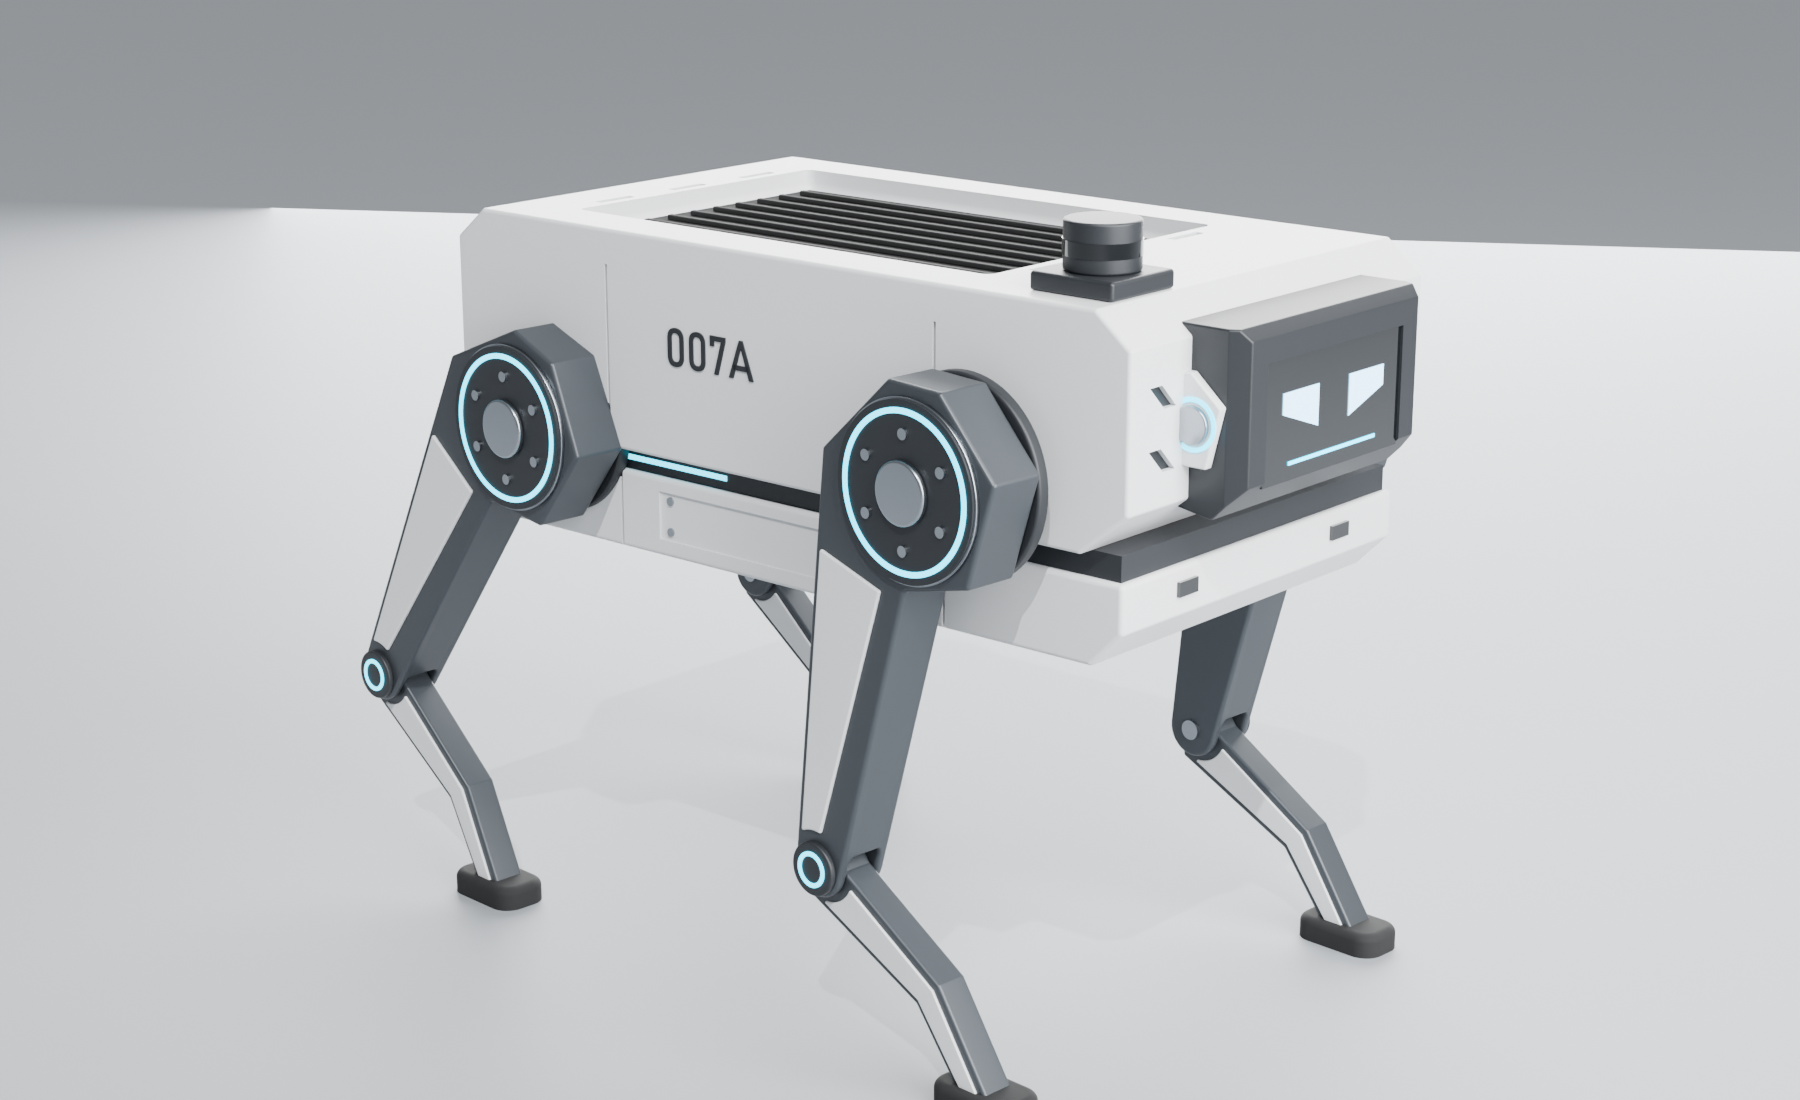
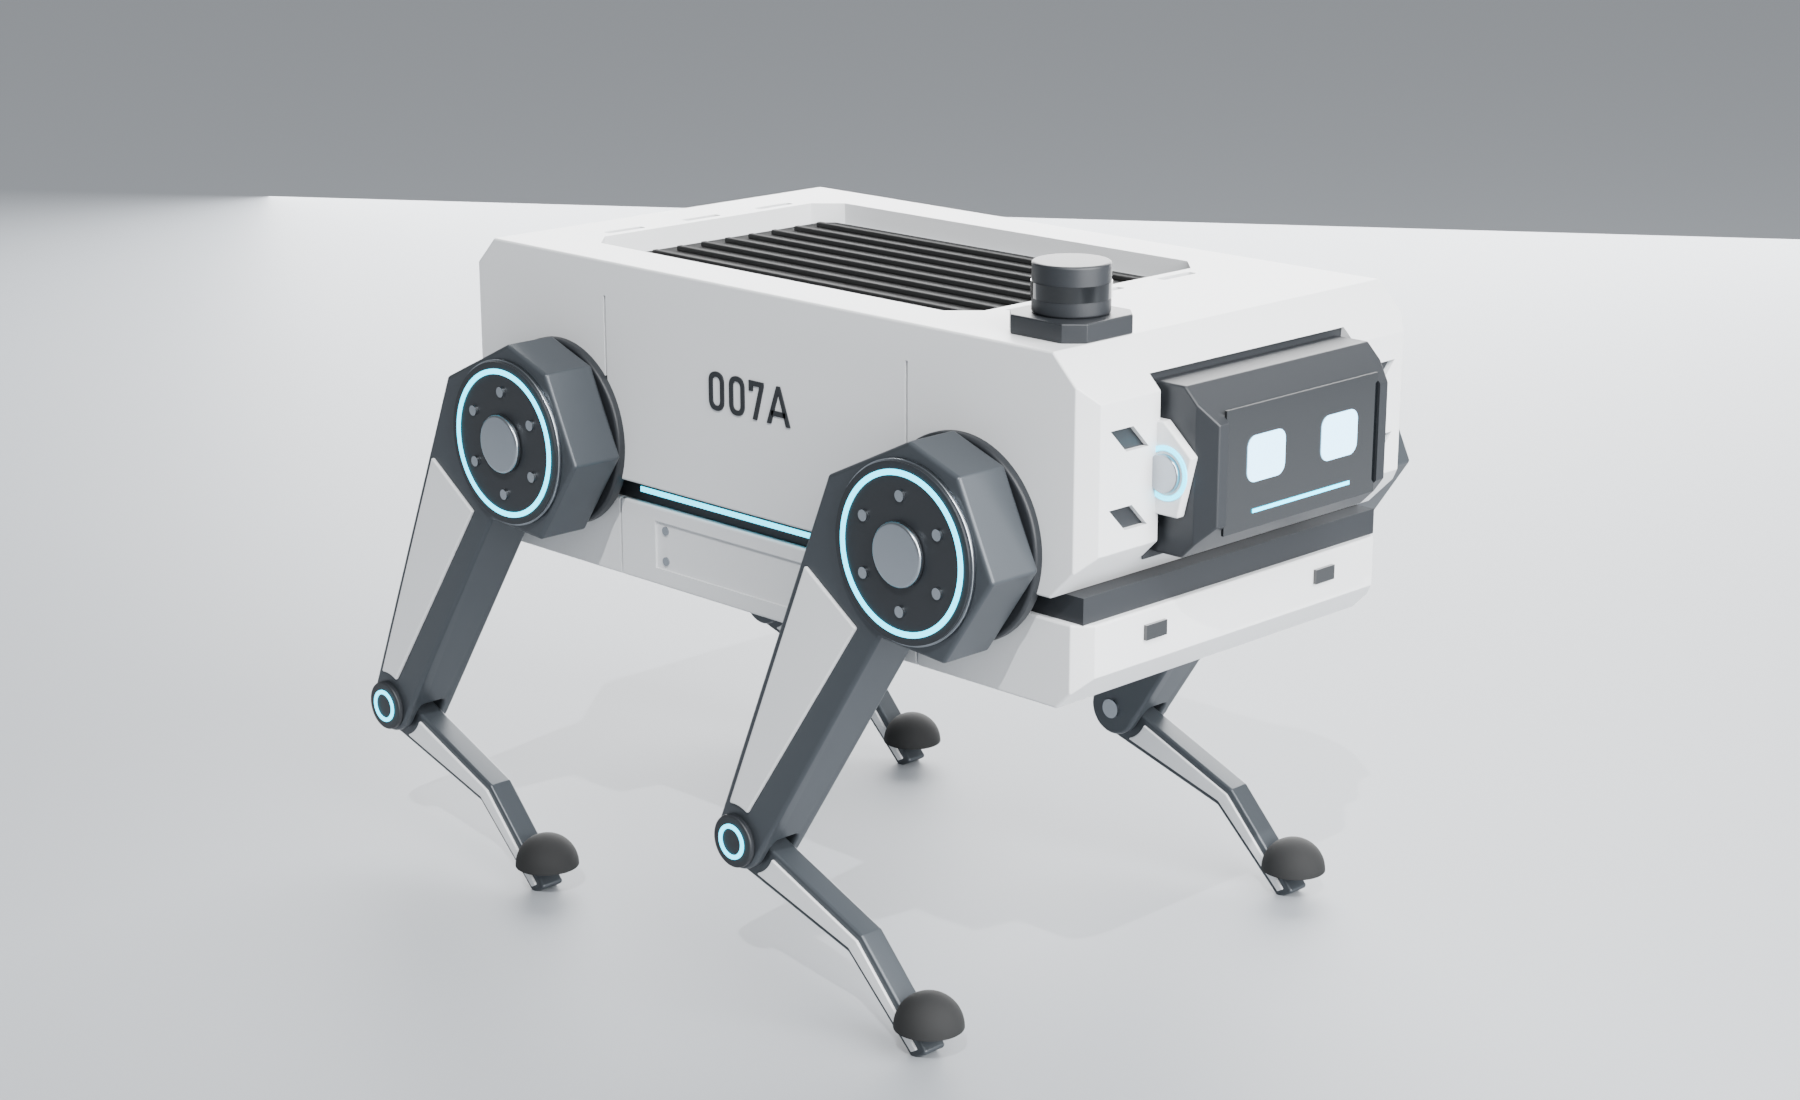
007A 外观 v8：在 v6.1 上做精——所有斜面统一 45°（大 24 / 中 18 / 俯视转角 10）、外棱统一倒 1.5；分缝上下连通、灯条字样居中在分缝之间；斜槽外沿对齐头正面；头四周 4 mm 影线缝（抬头低头间隙）；货台和雷达座同一套切角

Changed region(s): [[0.0933, 0.1236, 0.8089, 1.0], [0.7467, 0.1855, 1.0, 0.2473]]

diff --git a/007a/model.py b/007a/model.py
@@ -240,13 +240,34 @@ def leg_parts(fx, sy):
 
 
 # ================================================================ 机身
+# v8 做精：一套规则
+#   切角：所有斜面都是 45°；大斜面 24（机身前后上下）、中斜面 18（头的上沿和下巴、下层底盘）、俯视转角 10；所有外棱倒 1.5
+#   线：  头的正面上下沿 = 两边斜槽的外沿；灯条、字样、检修板都在两条分缝（x = ±120）之间居中
+#   接缝：头四周留 4 mm 的影线缝（屏幕抬头低头要的间隙，不是装饰）
+CH_BIG, CH_MID, CH_PLAN, EDGE = 24.0, 18.0, 10.0, 1.5
+SEAM_X = 120.0
+
+
+def plan_chamfer(s, ch=CH_PLAN):
+    """俯视的四个转角切 45°（竖直的棱）。"""
+    for sx in (1, -1):
+        for sy in (1, -1):
+            bb = s.BoundingBox()
+            x, y = (bb.xmax if sx > 0 else bb.xmin), (bb.ymax if sy > 0 else bb.ymin)
+            tri = cq.Workplane("XY").polyline([(x + sx, y + sy), (x - sx * ch, y + sy), (x + sx, y - sy * ch)]).close() \
+                .extrude(bb.zlen + 2).val().translate(V(0, 0, bb.zmin - 1))
+            s = s.cut(tri)
+    return s
+
+
 def body_parts():
     P = []
     # ---- 下层底盘：往里收，前后下角切大斜角
-    tub_prof = [(-L2 + 4, Z0 + 20), (-L2 + 24, Z0), (L2 - 24, Z0), (L2 - 4, Z0 + 20), (L2 - 4, TUB_TOP), (-L2 + 4, TUB_TOP)]
+    tub_prof = [(-L2 + 4, Z0 + CH_MID), (-L2 + 4 + CH_MID, Z0), (L2 - 4 - CH_MID, Z0), (L2 - 4, Z0 + CH_MID), (L2 - 4, TUB_TOP),
+                (-L2 + 4, TUB_TOP)]
     tub = prism_xz(tub_prof, -W2 + 6, W2 - 6)
-    tub = soft(tub, 3.0)
-    for x in (-L2 + 120, L2 - 120):                                # 面板分缝
+    tub = soft(plan_chamfer(tub), EDGE)
+    for x in (-SEAM_X, SEAM_X):                                    # 面板分缝（和上层甲板壳同一个 x，线从上到下连着）
         tub = tub.cut(box(x - SEAM / 2, x + SEAM / 2, -W2, W2, Z0 - 1, TUB_TOP + 1))
     for sy in (1, -1):                                             # 侧面检修板（凹 1.5 + 四颗螺栓）
         y = sy * (W2 - 6)
@@ -259,14 +280,14 @@ def body_parts():
     waist = box(-L2 + 8, L2 - 8, -W2 + 10, W2 - 10, TUB_TOP, WAIST_TOP)
     P.append(("黑腰", waist, "skel_dk"))
     for sy in (1, -1):
-        for x in (-100, 100):
-            P.append((f"腰线灯{sy}{x}", box(x - 60, x + 60, *sorted((sy * (W2 - 10), sy * (W2 - 9.4))), TUB_TOP + 5.5, WAIST_TOP - 5.5), "cyan"))
+        P.append((f"腰线灯{sy}", box(-SEAM_X + 14, SEAM_X - 14, *sorted((sy * (W2 - 10), sy * (W2 - 9.4))), TUB_TOP + 5.5, WAIST_TOP - 5.5), "cyan"))
     # ---- 上层甲板壳：前后大斜面（007v 那种往回收的装甲板），左右在 x=±120 分缝
-    slab_prof = [(-L2 + 26, WAIST_TOP), (L2 - 26, WAIST_TOP), (L2 + 4, WAIST_TOP + 24), (L2 + 4, TOP - 18), (L2 - 18, TOP),
-                 (-L2 + 18, TOP), (-L2 - 4, TOP - 18), (-L2 - 4, WAIST_TOP + 24)]
+    c = CH_BIG
+    slab_prof = [(-L2 - 4 + c, WAIST_TOP), (L2 + 4 - c, WAIST_TOP), (L2 + 4, WAIST_TOP + c), (L2 + 4, TOP - c), (L2 + 4 - c, TOP),
+                 (-L2 - 4 + c, TOP), (-L2 - 4, TOP - c), (-L2 - 4, WAIST_TOP + c)]
     slab = prism_xz(slab_prof, -W2 - 2, W2 + 2)
-    slab = soft(slab, 2.5)
-    for x in (-L2 + 120, L2 - 120):                                # 分缝只在两侧和前后，顶上留整块（货台是一体的）
+    slab = soft(plan_chamfer(slab), EDGE)
+    for x in (-SEAM_X, SEAM_X):                                # 分缝只在两侧和前后，顶上留整块（货台是一体的）
         for sy in (1, -1):
             slab = slab.cut(box(x - SEAM / 2, x + SEAM / 2, *sorted((sy * (W2 - 30), sy * (W2 + 5))), WAIST_TOP - 1, TOP - 20))
     # 前脸：屏幕窗 + 两边各两道凹槽（照用户的前脸图）
@@ -276,16 +297,20 @@ def body_parts():
     grooves = []
     for sy in (1, -1):                                             # 两边各两道平行斜槽（45°，和机身切角统一）
         y_in, y_end = sy * (HW / 2 + 12), sy * (W2 - 14)
-        for z0, z1 in ((zc + 10, zc + 22), (zc - 22, zc - 10)):
+        ff = HH / 2 - CH_MID                                          # 头正面的半高
+        for z0, z1 in ((zc + ff - 12, zc + ff), (zc - ff, zc - ff + 12)):
             h = z1 - z0
             pts = [(y_in, z0), (y_end - sy * h, z0), (y_end, z1), (y_in + sy * h, z1)]   # 平行四边形：都往外上方斜
             slab = slab.cut(prism_yz(pts, L2 - 1, L2 + 10))
             grooves.append((sy, z0, pts))
     BX0, BX1, BW, BD = -178.0, 128.0, 196.0, 14.0                    # 货台：凹下去 14
-    slab = slab.cut(soft(box(BX0, BX1, -BW / 2, BW / 2, TOP - BD, TOP + 5), 6.0))
+    slab = slab.cut(plan_chamfer(box(BX0, BX1, -BW / 2, BW / 2, TOP - BD, TOP + 5), 16.0))
     for x in (BX0 - 9, BX1 + 9):                                   # 前后沿的绑带孔
         for y in (-60, 0, 60):
             slab = slab.cut(soft(box(x - 3, x + 3, y - 14, y + 14, TOP - 8, TOP + 5), 1.5))
+    gap = box(L2 - 6, L2 + 10, -HW / 2 - 4, HW / 2 + 4, zc - HH / 2 - 4, zc + HH / 2 + 4)
+    slab = slab.cut(gap)
+    P.append(("头影线缝底", box(L2 - 6, L2 - 5, -HW / 2 - 4, HW / 2 + 4, zc - HH / 2 - 4, zc + HH / 2 + 4), "skel_dk"))
     P.append(("上层甲板壳", slab, "shell"))
     P.append(("货台底垫", box(BX0 + 4, BX1 - 4, -BW / 2 + 4, BW / 2 - 4, TOP - BD, TOP - BD + 2), "rubber"))
     for k in range(9):                                             # 防滑筋
@@ -298,7 +323,6 @@ def body_parts():
         P.append((f"凹槽内衬{sy}{z0:.0f}", prism_yz(pts, L2 - 1.5, L2 + 0.8), "skel_dk"))
     for sy in (1, -1):
         txt = cq.Workplane("XZ").text("007A", 30, 0.8, halign="center", valign="center", fontPath="C:/Windows/Fonts/bahnschrift.ttf").val()
-        txt = txt.translate(V(-40, 0, 0))
         if sy > 0:
             txt = txt.rotate(V(0, 0, 0), V(0, 0, 1), 180).translate(V(0, W2 + 2, zc))
         else:
@@ -307,20 +331,20 @@ def body_parts():
     # ---- 头：深色屏幕模块从前脸往前伸 30，前面切角（像头盔面罩）；两侧金属圆盖 = 抬头低头的转轴
     hx0, hx1 = L2 + 4, L2 + 4 + HD
     zb, zt = zc - HH / 2, zc + HH / 2
-    prof = [(hx0 - 10, zb + 4), (hx1 - 18, zb), (hx1, zb + 18), (hx1, zt - 6), (hx1 - 6, zt), (hx0 - 10, zt)]   # 侧面：下巴往回收
+    prof = [(hx0 - 10, zb), (hx1 - CH_MID, zb), (hx1, zb + CH_MID), (hx1, zt - CH_MID), (hx1 - CH_MID, zt), (hx0 - 10, zt)]   # 上沿、下巴都是 45° × 18
     head = prism_xz(prof, -HW / 2, HW / 2)
     for sy in (1, -1):                                             # 前面两侧切掉一个斜角（收窄）
         tri = cq.Workplane("XY").polyline([(hx1 - 12, sy * (HW / 2 + 1)), (hx1 + 12, sy * (HW / 2 + 1)),
                                             (hx1 + 12, sy * (HW / 2 - 13))]).close().extrude(HH + 20).val()
         head = head.cut(tri.translate(V(0, 0, zb - 10)))
     head = soft(head, 1.5)
-    head = head.cut(box(hx1 - 3, hx1 + 1, -sw / 2, sw / 2, zc - sh / 2 - 2, zc + sh / 2 - 2))
+    head = head.cut(box(hx1 - 3, hx1 + 1, -sw / 2, sw / 2, zc - sh / 2, zc + sh / 2))
     P.append(("头", head, "skel_dk"))
     for sy in (1, -1):                                             # 头两侧的鳍（装转轴的“耳朵”）
         fin = prism_xz([(hx0 - 6, zc - 22), (hx0 + 14, zc - 22), (hx0 + 22, zc + 10), (hx0 + 4, zc + 26), (hx0 - 6, zc + 26)],
                        *sorted((sy * HW / 2, sy * (HW / 2 + 6))))
         P.append((f"头鳍{sy}", soft(fin, 1.2), "shell"))
-    P.append(("屏幕", box(hx1 - 3, hx1 - 1.5, -sw / 2, sw / 2, zc - sh / 2 - 2, zc + sh / 2 - 2), "glass"))
+    P.append(("屏幕", box(hx1 - 3, hx1 - 1.5, -sw / 2, sw / 2, zc - sh / 2, zc + sh / 2), "glass"))
     for ey in (-30, 30):
         eye = cq.Workplane("YZ").rect(30, 24).extrude(0.4).edges("|X").fillet(6).val().translate(V(hx1 - 1.4, ey, zc + 4))
         P.append((f"眼睛{ey}", eye, "eye"))
@@ -330,7 +354,7 @@ def body_parts():
         P.append((f"头转轴光环{sy}", ring_y(hx0 + 6, zc, 28, 23, *sorted((sy * (HW / 2 + 6), sy * (HW / 2 + 6.6)))), "cyan"))
     # 激光雷达：人面对它看的左上角（= 机器人自己的右边，-y），照用户的前脸图
     lx, ly = L2 - 46, -(W2 - 40)
-    P.append(("雷达座", soft(box(lx - 26, lx + 26, ly - 26, ly + 26, TOP, TOP + 10), 2.0), "skel_dk"))
+    P.append(("雷达座", soft(plan_chamfer(box(lx - 26, lx + 26, ly - 26, ly + 26, TOP, TOP + 10)), 1.0), "skel_dk"))
     P.append(("雷达", soft(cq.Solid.makeCylinder(20, 26, V(lx, ly, TOP + 10)), 1.5), "skel_dk"))
     P.append(("雷达窗", cq.Solid.makeCylinder(20.4, 8, V(lx, ly, TOP + 18)).cut(cq.Solid.makeCylinder(19, 8, V(lx, ly, TOP + 18))), "glass"))
     # ---- 背上：货台已经做进上层甲板壳里了（见上面）
